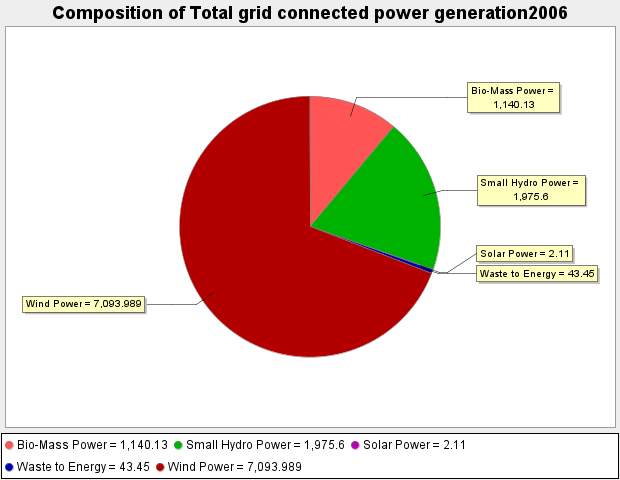
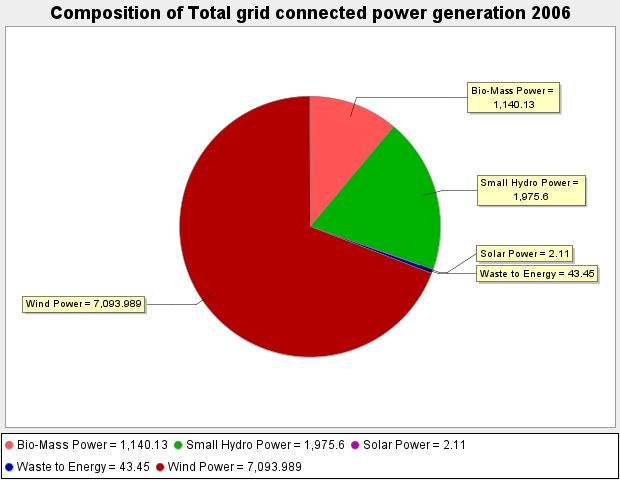
saved chartfiles

Changed region(s): [[0.0613, 0.0, 0.9194, 0.0625]]

diff --git a/src/main/java/com/example/Data.java b/src/main/java/com/example/Data.java
@@ -27,7 +27,7 @@ import javax.swing.WindowConstants;
 @SuppressWarnings("unused")
 public class Data{
     //find the column count for the output array of a groupby method
-    //if you want an array contianing all indexes where a particular value occurs,
+    //if you want an array conaining all indexes where a particular value occurs,
     // and assuming each value occurs equal no of times.
     //from x, find the indexes where each value of unique array occurs
     static int findColumnCount(ArrayList<String> x,ArrayList<String> unique){
@@ -136,7 +136,6 @@ public class Data{
         for(String i:unique_list){
                 //create array to hold all index values of needed values
             Integer[] array=new Integer[column_count];
-            // treemap.put(i, array);
             array=findAllInStringArrayList(x, i);
             Float[] float_y=convertArrListFloatToFloatArr(y);
             if(aggregate.equals("sum")){
@@ -174,7 +173,6 @@ public class Data{
         for(String i:unique_list_x1){
                 //create array to hold all index values of needed values
             Integer[] array_x1=findAllInStringArrayList(x1, i);
-            // treemap.put(i, array);
             treemap_x1.put(i,array_x1);
                 //keys should be unique so it will overwrite
             
@@ -182,7 +180,6 @@ public class Data{
         for(String i:unique_list_x2){
                 //create array to hold all index values of needed values
             Integer[] array_x2=new Integer[column_count_x2];
-            // treemap.put(i, array);
             array_x2=findAllInStringArrayList(x2, i);
             treemap_x2.put(i,array_x2);
                 
@@ -217,7 +214,6 @@ public class Data{
             
                 //create array to hold all index values of needed values
             Integer[] array_group1=findAllInStringArrayList(group1, i);
-            // treemap.put(i, array);
             treemap_group1.put(i,array_group1);
                 //keys should be unique or else it will overwrite
             
@@ -225,7 +221,6 @@ public class Data{
         for(String i:unique_list_group2){
                 //create array to hold all index values of needed values
             Integer[] array_group2=new Integer[column_count_group2];
-            // treemap.put(i, array);
             array_group2=findAllInStringArrayList(group2, i);
             treemap_group2.put(i,array_group2);
                 
@@ -236,7 +231,6 @@ public class Data{
             
             //create array to hold all index values of needed values
             Integer[] array_group3=new Integer[column_count_group3];
-            // treemap.put(i, array);
             array_group3=findAllInStringArrayList(group3, i);
             treemap_group3.put(i,array_group3);
             
@@ -245,7 +239,7 @@ public class Data{
         //uses the array method compare to sort the keys
         for(String j:unique_list_group2){
             Integer[] j_arr=treemap_group2.get(j);
-            // Float[] pos=new Float[unique_list_group2.size()]; //create a list with size equal to no of states
+           
             //this list will have the capacities, we order this list find the top10 and get it from the treemap created for a new treemap
             int count=0;
             for(String k:subset){
@@ -265,39 +259,17 @@ public class Data{
                         else{
                             String[] key={j,k,m};
                             treemap.put(key,sum);
-                            // pos[count]=sum;
+
                             count+=1;
                         }
                         
                     }
-                    
-                    
-                    
-                    // System.out.println(count);
+
                 }
-            // for(Float po:pos){
-            // System.out.print(po);
-            // }
+
                 Set<Map.Entry<String[], Float> > entries= treemap.entrySet();
                 Iterator<Map.Entry<String[], Float> > iterator = entries.iterator();
-                // Arrays.sort(pos);
-                // for(Map.Entry<String[],Float> entry:entries){
-                //     boolean flag=false;
-                //     for(int i=pos.length-1;i>=pos.length-10;i--){
-                //         if(pos[i]!=Float.parseFloat("0")){
-                //             if(entry.getValue()==pos[i]){
-                //                 flag=true;
-                //                 break;
-                //             }
-                //         }
-                //         else{
-                //             break;
-                //         }
-                //     }
-                //     if(flag==false){
-                //         treemap.remove(entry.getKey());
-                //     }
-                // }   
+  
             }
         }    
         return treemap;
@@ -315,37 +287,13 @@ public class Data{
             lineChart.setDefaultCloseOperation(WindowConstants.EXIT_ON_CLOSE);  
             lineChart.setVisible(true);  
         });  
-        
-
-        
-
-            
-        
-        
-        // int step=0;
-        // for(Integer[] k:data_groupedBy_class){
-        //     System.out.println("NEW ROW : NOTICE THIS"+step);
-        //     for(int l:k){
-        //         // if(l!= null)
-        //             System.out.println(l);
-        //     }
-        //     step+=1;
-        // }
-        // Set<String> keys= data_groupedBy_year.keySet();
-        // for(String i:keys){
-        //     Integer[] list=data_groupedBy_year.get(i);
-        //     for(Integer arr_el:list){
-        //         System.out.println(arr_el);
-                
-        //     }
-        // }
          
     }
    
     public static void BarChartforTop10(ArrayList<String> group1,ArrayList<String> group2,ArrayList<String> group3,ArrayList<Float> y_val,String series,String xlabel,String ylabel){
         TreeMap<String[],Float> data_groupedBy_year_state=groupbyMultiple(group1,group2,group3, "sum",y_val,series);
         SwingUtilities.invokeLater(()->{
-            BarChart barChart=new BarChart("Comparison of State-Wise Capacity of "+series,data_groupedBy_year_state,series,xlabel,ylabel);  
+            BarChart barChart=new BarChart("State-Wise Comparison of Grid Connected Energy Capacity- "+series,data_groupedBy_year_state,series,xlabel,ylabel);  
             barChart.setSize(800,800);  
             barChart.setLocationRelativeTo(null);  
             barChart.setDefaultCloseOperation(WindowConstants.EXIT_ON_CLOSE);  
@@ -367,7 +315,7 @@ public class Data{
     public static void LowestStates(ArrayList<String> group1,ArrayList<Float> y_val,ArrayList<String> group2,String x_label,String y_label){
         TreeMap<String[],Float> data_groupedBy_year_state=groupby(group2,group1, "sum",y_val);
         SwingUtilities.invokeLater(()->{
-        BarChart barChart=new BarChart("Comparison of State-Wise Capacity of ",data_groupedBy_year_state,x_label,y_label);  
+        BarChart barChart=new BarChart("States/UTs with Lowest Total Grid Connected Renewable energy capacity ",data_groupedBy_year_state,x_label,y_label);  
         barChart.setSize(800,800);  
         barChart.setLocationRelativeTo(null);  
         barChart.setDefaultCloseOperation(WindowConstants.EXIT_ON_CLOSE);  

diff --git a/src/main/java/com/example/charting/BarChart.java b/src/main/java/com/example/charting/BarChart.java
@@ -1,5 +1,7 @@
 package com.example.charting;
 import java.awt.Color;
+import java.io.File;
+import java.io.IOException;
 import java.util.ArrayList;
 import java.util.Collections;
 import java.util.Iterator;
@@ -10,7 +12,8 @@ import java.util.TreeMap;
 import javax.swing.JFrame;  
 
 import org.jfree.chart.ChartFactory;  
-import org.jfree.chart.ChartPanel;  
+import org.jfree.chart.ChartPanel;
+import org.jfree.chart.ChartUtilities;
 import org.jfree.chart.JFreeChart;
 import org.jfree.chart.axis.CategoryAxis;
 import org.jfree.chart.plot.CategoryPlot;
@@ -47,6 +50,13 @@ public class BarChart extends JFrame  {
       
         ChartPanel panel=new ChartPanel(chart);  
         setContentPane(panel);  
+          File barChart = new File( "barChart"+series+".png"); 
+        try {
+          ChartUtilities.saveChartAsPNG( barChart,chart,620,480 );
+        } catch (IOException e) {
+          
+          e.printStackTrace();
+        }
       } 
       public BarChart(String title,TreeMap<String[],Float> treemap,String x_label,String y_label) {
         super(title);  
@@ -74,7 +84,13 @@ public class BarChart extends JFrame  {
       
         ChartPanel panel=new ChartPanel(chart);  
         setContentPane(panel);  
-
+        File barChart = new File( "barChart.png"); 
+        try {
+          ChartUtilities.saveChartAsPNG( barChart,chart,620,480 );
+        } catch (IOException e) {
+          
+          e.printStackTrace();
+        }
       }
       
       private CategoryDataset createDataset(TreeMap<String[],Float> treemap,String series) {  

diff --git a/src/main/java/com/example/charting/LineChart.java b/src/main/java/com/example/charting/LineChart.java
@@ -5,10 +5,14 @@ import java.util.Set;
 import java.util.TreeMap;
 import java.awt.BasicStroke;
 import java.awt.Color;
+import java.io.File;
+import java.io.IOException;
+
 import javax.swing.JFrame;  
   
 import org.jfree.chart.ChartFactory;  
-import org.jfree.chart.ChartPanel;  
+import org.jfree.chart.ChartPanel;
+import org.jfree.chart.ChartUtilities;
 import org.jfree.chart.JFreeChart;
 import org.jfree.chart.plot.CategoryPlot;
 import org.jfree.chart.plot.PlotOrientation;
@@ -42,6 +46,13 @@ public class LineChart extends JFrame {
 
         ChartPanel panel = new ChartPanel(chart);  
         setContentPane(panel);  
+        File chartLine = new File( "LineChart.png" ); 
+      try {
+        ChartUtilities.saveChartAsPNG( chartLine , chart ,620,480 );
+      } catch (IOException e) {
+        
+        e.printStackTrace();
+      }
     }
 
     private CategoryDataset createDataset(TreeMap<String[],Float> treemap){

diff --git a/src/main/java/com/example/charting/PieChart.java b/src/main/java/com/example/charting/PieChart.java
@@ -1,8 +1,6 @@
 package com.example.charting;
 import java.awt.BorderLayout;
 import java.awt.Color;
-import java.awt.FlowLayout;
-import java.awt.GridBagLayout;
 import java.awt.GridLayout;
 import java.io.File;
 import java.io.IOException;
@@ -39,7 +37,7 @@ public class PieChart extends JFrame{
   
     // Create chart  
     JFreeChart chart1 = ChartFactory.createPieChart(  
-        title+series1,  
+        title+" "+series1,  
         dataset1,  
         true,   
         true,  
@@ -71,7 +69,7 @@ public class PieChart extends JFrame{
       panel.add(new ChartPanel(chart1),BorderLayout.CENTER);
       
       JFreeChart chart2 = ChartFactory.createPieChart(  
-        title+series2,  
+        title+" "+series2,  
         dataset2,  
         true,   
         true,  
